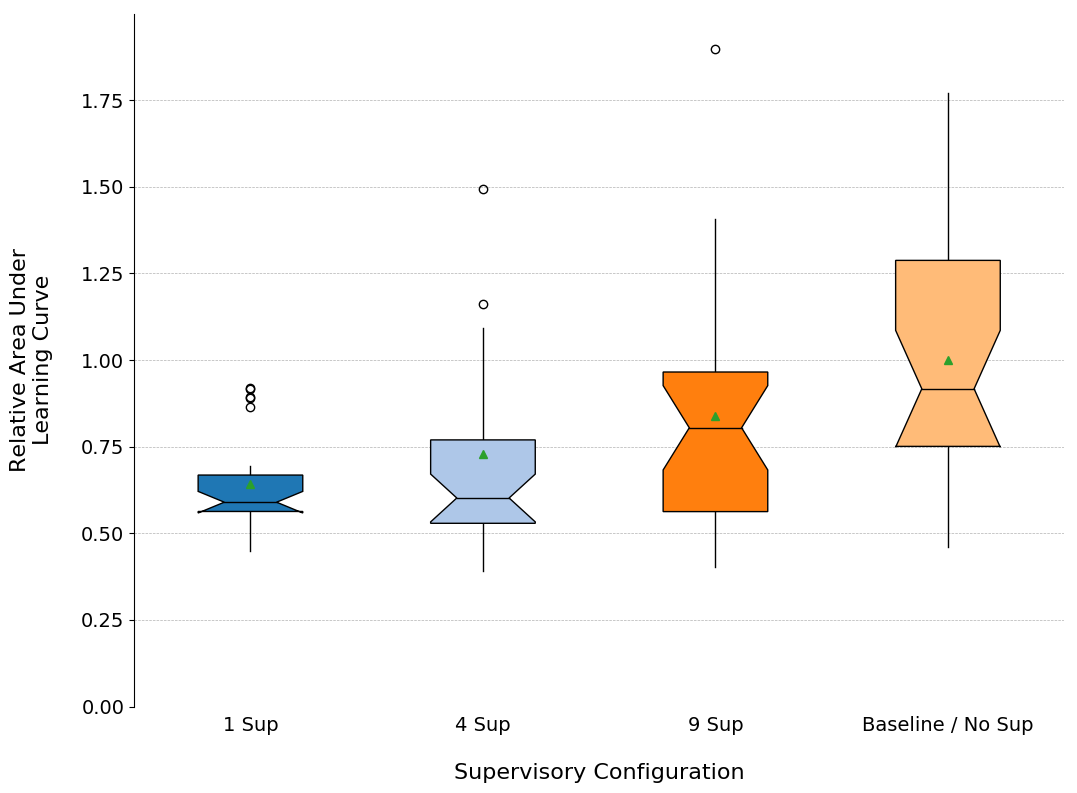
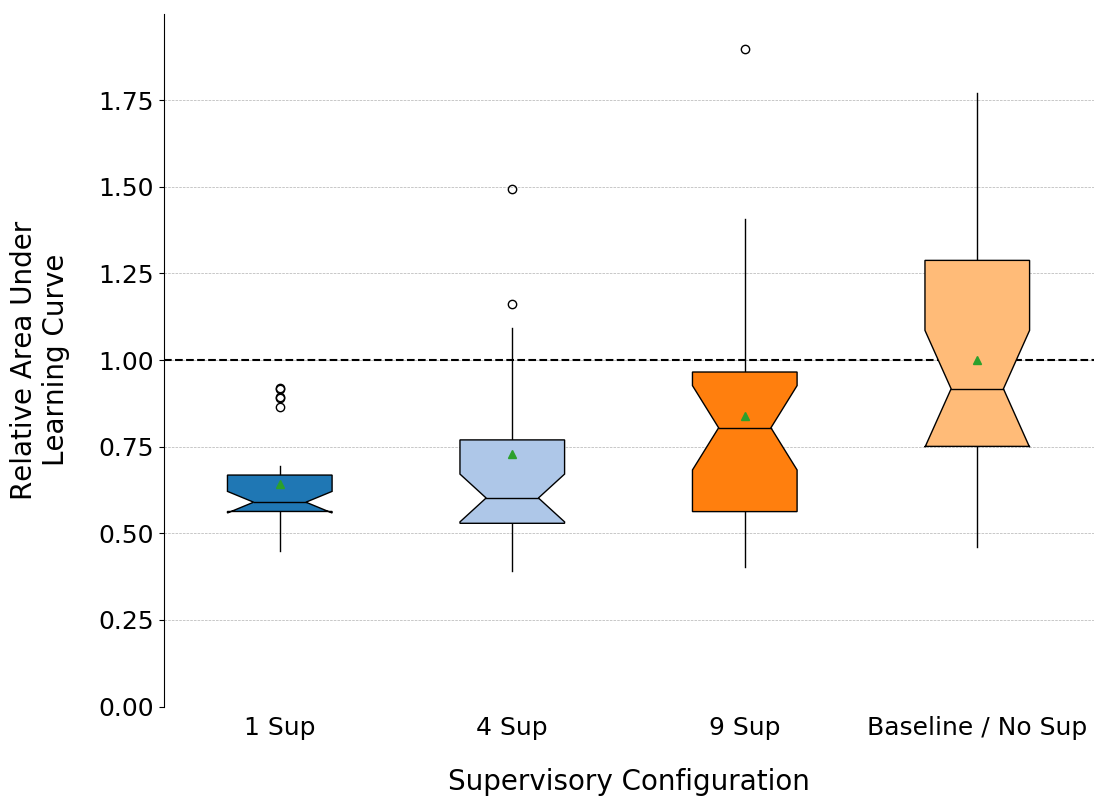
Better figures

diff --git a/code/plotting/plotting.py b/code/plotting/plotting.py
@@ -106,10 +106,10 @@ def _curve(mean, ax, color, label=None, fill=False, area=False):
     ax.spines['left'].set_visible(False)
     ax.tick_params(axis='both', which='both', bottom='off', top='off',
                    labelbottom='on', left='off', right='off', labelleft='on', direction='in')
-    plt.xticks(fontsize=14)
-    plt.yticks(fontsize=14)
-    ax.set_ylabel('Service Time', fontsize=16, labelpad=20)
-    ax.set_xlabel('Time', fontsize=16, labelpad=20)
+    plt.xticks(fontsize=18)
+    plt.yticks(fontsize=18)
+    ax.set_ylabel('Service Time', fontsize=20, labelpad=20)
+    ax.set_xlabel('Time', fontsize=20, labelpad=20)
     ax.grid(True, linestyle='dashed', linewidth=.5, color='black', alpha=.3)
     if fill:
         ax.plot(x, y, color='black', linewidth=.5, label='_nolegend_')
@@ -182,10 +182,9 @@ def box_plot(data, compare=None, ax=None, labels=None, color=False, median=False
     ax.spines['right'].set_visible(False)
     ax.tick_params(axis='both', which='both', bottom='off', top='off',
                    labelbottom='on', left='on', right='off', labelleft='on', direction='out')
-    plt.xticks(fontsize=14)
-    plt.yticks(np.arange(0, 2, .25), fontsize=14)
-    ax.set_ylabel('Relative Area Under\nLearning Curve', fontsize=16, labelpad=20)
-    ax.yaxis.grid(True, linestyle='dashed', linewidth=.5, color='black', alpha=.3)
+    plt.xticks(fontsize=18)
+    plt.yticks(np.arange(0, 2, .25), fontsize=18)
+    ax.set_ylabel('Relative Area Under\nLearning Curve', fontsize=20, labelpad=20)
     ax.set_ylim([0, 2])
     if compare is None:
         ax.boxplot([_box(trials)], labels=labels, notch=notch)
@@ -205,6 +204,8 @@ def box_plot(data, compare=None, ax=None, labels=None, color=False, median=False
             med.set_color('black')
         if median:
             ax.plot(median_x, median_y, color=TABLEAU20[6], linestyle='dashed', marker='.', markersize=10)
+    ax.yaxis.grid(True, linestyle='dashed', linewidth=.5, color='black', alpha=.3)
+    ax.axhline(y=1, linewidth=1.5, linestyle='dashed', color='black')
     if ax is None:
         if save:
             plt.savefig("figures/box_" + data + ".png", bbox_inches='tight')
@@ -214,7 +215,7 @@ def box_plot(data, compare=None, ax=None, labels=None, color=False, median=False
 
 def figure4(baseline, windows, labels=None, save=False):
     fig, ax = plt.subplots(figsize=(12, 9))
-    ax.set_xlabel('Window Size', fontsize=16, labelpad=20)
+    ax.set_xlabel('Window Size', fontsize=20, labelpad=20)
     box_plot(baseline, windows, ax, labels=labels, median=True)
     if save:
         plt.savefig("figures/figure4_" + str(datetime.datetime.now()) + ".png", bbox_inches='tight')
@@ -234,7 +235,7 @@ def figure5(baseline, supervised, save=False):
     else:
         _curve(sup_mean, ax, color=TABLEAU20[3], label='1 Supervisor', fill=True, area=True)
         _curve(base_mean, ax, color=TABLEAU20[0], label='Baseline', fill=True, area=True)
-    ax.legend(fontsize=14, frameon=False)
+    ax.legend(fontsize=18, frameon=False)
     if save:
         plt.savefig("figures/figure5_" + str(datetime.datetime.now()) + ".png", bbox_inches='tight')
     else:
@@ -243,7 +244,7 @@ def figure5(baseline, supervised, save=False):
 
 def figure7(baseline, filenames, labels=None, save=False):
     fig, ax = plt.subplots(figsize=(12, 9))
-    ax.set_xlabel('Supervisory Configuration', fontsize=16, labelpad=20)
+    ax.set_xlabel('Supervisory Configuration', fontsize=20, labelpad=20)
     box_plot(data=baseline, compare=filenames, ax=ax, labels=labels, color=True, notch=True)
     if save:
         plt.savefig("figures/figure7_" + str(datetime.datetime.now()) + ".png", bbox_inches='tight')
@@ -267,10 +268,10 @@ def figure8(baselines, sizes, labels=None, save=False):
     ax.spines['right'].set_visible(False)
     ax.tick_params(axis='both', which='both', bottom='off', top='off',
                    labelbottom='on', left='on', right='off', labelleft='on', direction='out')
-    plt.xticks(fontsize=14)
-    plt.yticks(np.arange(.2, 1.6, .1), fontsize=14)
-    ax.set_xlabel('Network Size', fontsize=16, labelpad=20)
-    ax.set_ylabel('Relative Area Under\nLearning Curve', fontsize=16, labelpad=20)
+    plt.xticks(fontsize=18)
+    plt.yticks(np.arange(.2, 1.6, .1), fontsize=18)
+    ax.set_xlabel('Network Size', fontsize=20, labelpad=20)
+    ax.set_ylabel('Relative Area Under\nLearning Curve', fontsize=20, labelpad=20)
     ax.yaxis.grid(True, linestyle='dashed', linewidth=.5, color='black', alpha=.3)
     ax.set_ylim([.2, 1.6])
     box_list = list()
@@ -329,11 +330,11 @@ fig7_labels = [
 ]
 fig8_csv = [
     'csv_data/N_baseline_w25n100.csv',
-    'csv_data/N_baseline_n324_scaled2.csv',
-    'csv_data/N_baseline_n729_scaled2.csv',
+    'csv_data/N_baseline_n324.csv',
+    'csv_data/N_baseline_n729.csv',
     'csv_data/N_nine_sup_w25.csv',
-    'csv_data/N_9sup_n324_scaled2.csv',
-    'csv_data/N_9sup_n729_scaled2.csv'
+    'csv_data/N_9sup_n324.csv',
+    'csv_data/N_9sup_n729.csv'
 ]
 fig8_labels = [
     '100',
@@ -342,6 +343,6 @@ fig8_labels = [
 ]
 # line_plot('csv_data/N_baseline_n729_scaled.csv', save=True)
 # figure4(baseline='csv_data/N_baseline_w25n100.csv', windows=fig4_csv, labels=fig4_labels, save=True)
-# figure5('csv_data/N_baseline_w25n100.csv', 'csv_data/N_one_sup_w25.csv', save=True)
+figure5('csv_data/N_baseline_w25n100.csv', 'csv_data/N_one_sup_w25.csv', save=True)
 # figure7(baseline=fig7_csv[3], filenames=fig7_csv, labels=fig7_labels, save=True)
 # figure8(baselines=fig8_csv[:3], sizes=fig8_csv[3:], labels=fig8_labels, save=True)
